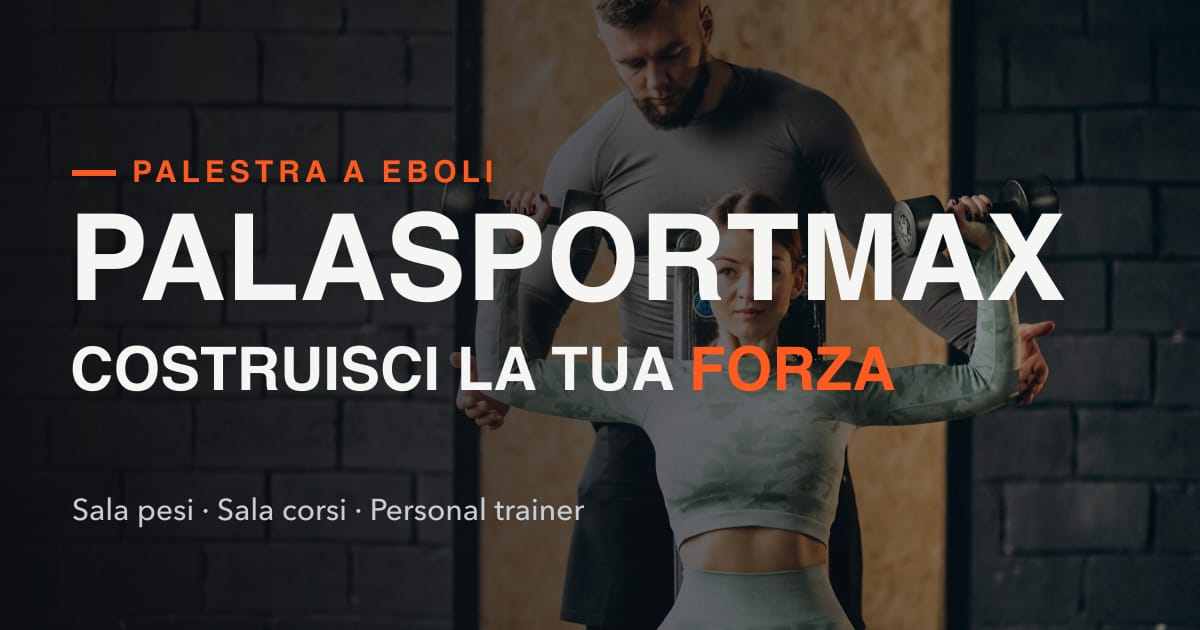
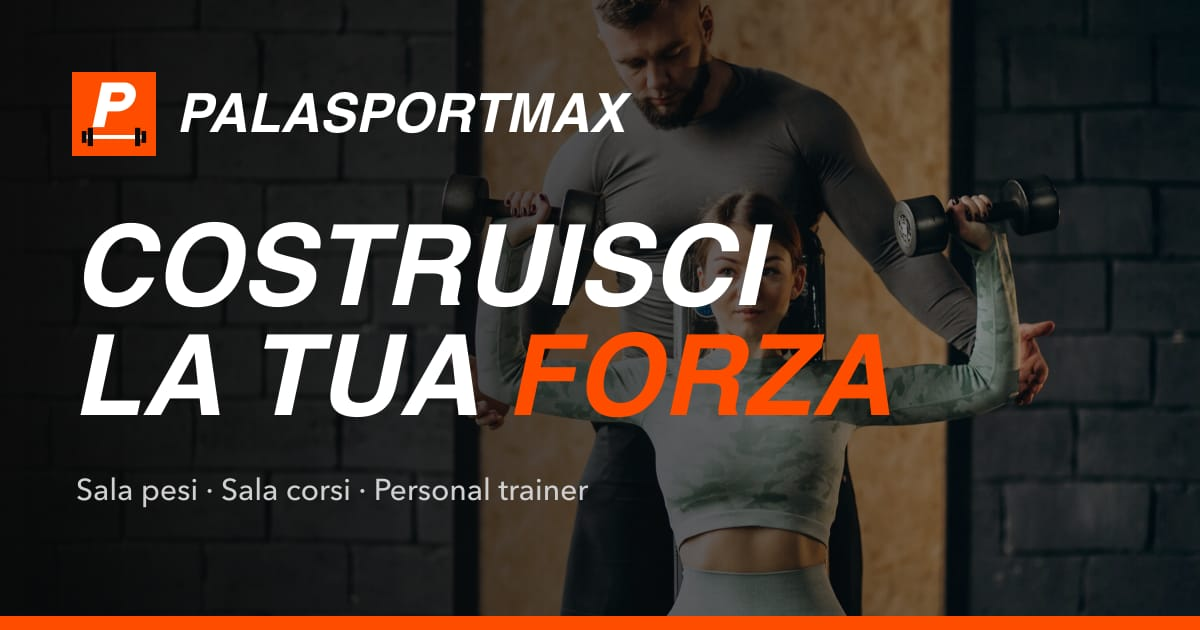
Remove location from page title and social preview
- Page title, meta description and Open Graph texts no longer mention
  the city; it now appears only in the address
- Regenerate og-image.jpg with the new logo and without the location

diff --git a/index.html b/index.html
@@ -4,9 +4,9 @@
 <head>
   <meta charset="UTF-8" />
   <meta name="viewport" content="width=device-width, initial-scale=1.0, viewport-fit=cover" />
-  <title>Palasportmax · Palestra a Eboli | Sala pesi, corsi e personal trainer</title>
+  <title>Palasportmax | Sala pesi, corsi e personal trainer</title>
   <meta name="description"
-    content="Palasportmax, palestra a Eboli in Via Nazionale 62: sala pesi, sala corsi, personal trainer, abbonamento mensile e ingresso giornaliero. Scrivici su WhatsApp." />
+    content="Palasportmax: sala pesi, sala corsi, personal trainer, abbonamento mensile e ingresso giornaliero. Scrivici su WhatsApp." />
   <link rel="canonical" href="https://sito-palestra-lilac.vercel.app/" />
   <meta name="theme-color" content="#0a0a0a" />
 
@@ -18,14 +18,14 @@
   <meta property="og:type" content="website" />
   <meta property="og:locale" content="it_IT" />
   <meta property="og:site_name" content="Palasportmax" />
-  <meta property="og:title" content="Palasportmax · Palestra a Eboli" />
+  <meta property="og:title" content="Palasportmax · Costruisci la tua forza" />
   <meta property="og:description"
-    content="Sala pesi, sala corsi e personal trainer in Via Nazionale 62, Eboli. Costruisci la tua forza." />
+    content="Sala pesi, sala corsi e personal trainer. Costruisci la tua forza." />
   <meta property="og:url" content="https://sito-palestra-lilac.vercel.app/" />
   <meta property="og:image" content="https://sito-palestra-lilac.vercel.app/og-image.jpg" />
   <meta property="og:image:width" content="1200" />
   <meta property="og:image:height" content="630" />
-  <meta property="og:image:alt" content="Palasportmax, palestra a Eboli" />
+  <meta property="og:image:alt" content="Palasportmax" />
   <meta name="twitter:card" content="summary_large_image" />
 
   <!-- Dati strutturati per Google (ricerca locale e Maps) -->

diff --git a/src/utils/openStatus.js b/src/utils/openStatus.js
@@ -10,7 +10,7 @@ const toMinutes = (hhmm) => {
 const rangesFor = (day) =>
   SCHEDULE.find((row) => row.days.includes(day))?.hours ?? [];
 
-// Ora corrente a Eboli, indipendente dal fuso del visitatore.
+// Ora italiana (Europe/Rome), indipendente dal fuso del visitatore.
 export function romeNow(date = new Date()) {
   const parts = new Intl.DateTimeFormat("en-GB", {
     timeZone: "Europe/Rome",

diff --git a/src/pages/Privacy.jsx b/src/pages/Privacy.jsx
@@ -8,7 +8,7 @@ export default function Privacy() {
     document.title = "Privacy e cookie · Palasportmax";
     window.scrollTo(0, 0);
     return () => {
-      document.title = "Palasportmax · Palestra a Eboli | Sala pesi, corsi e personal trainer";
+      document.title = "Palasportmax | Sala pesi, corsi e personal trainer";
     };
   }, []);
 
